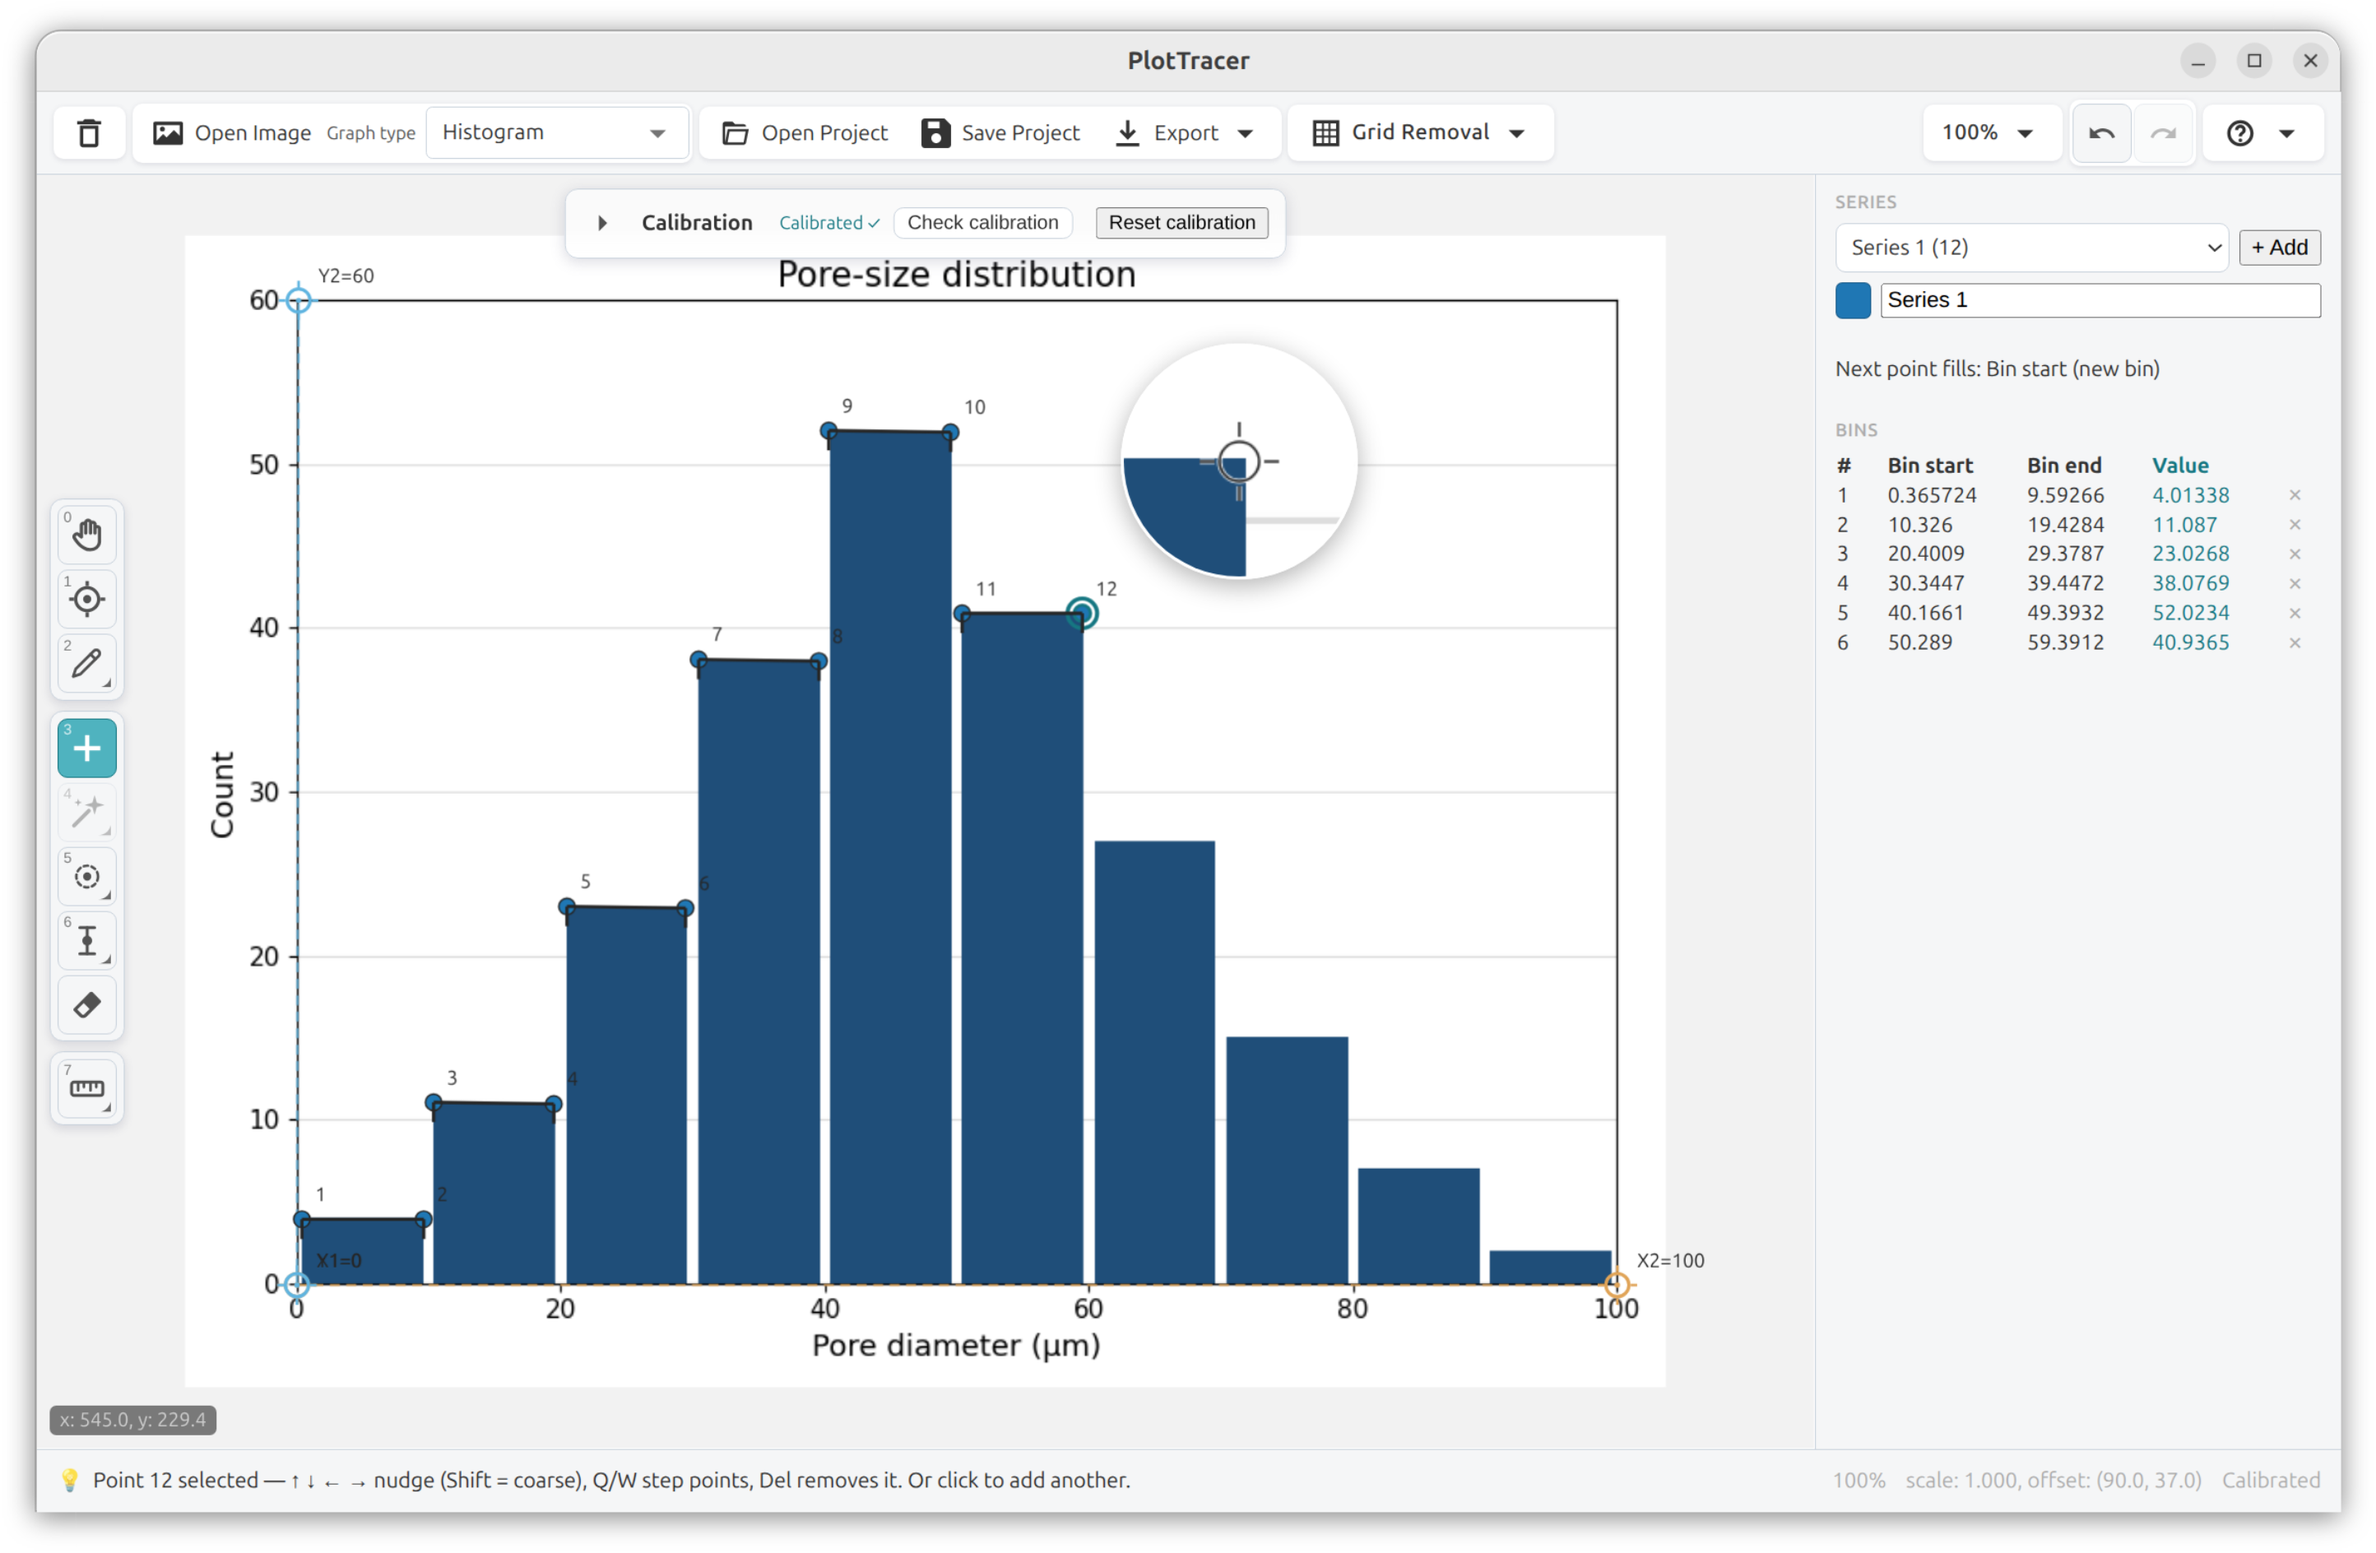
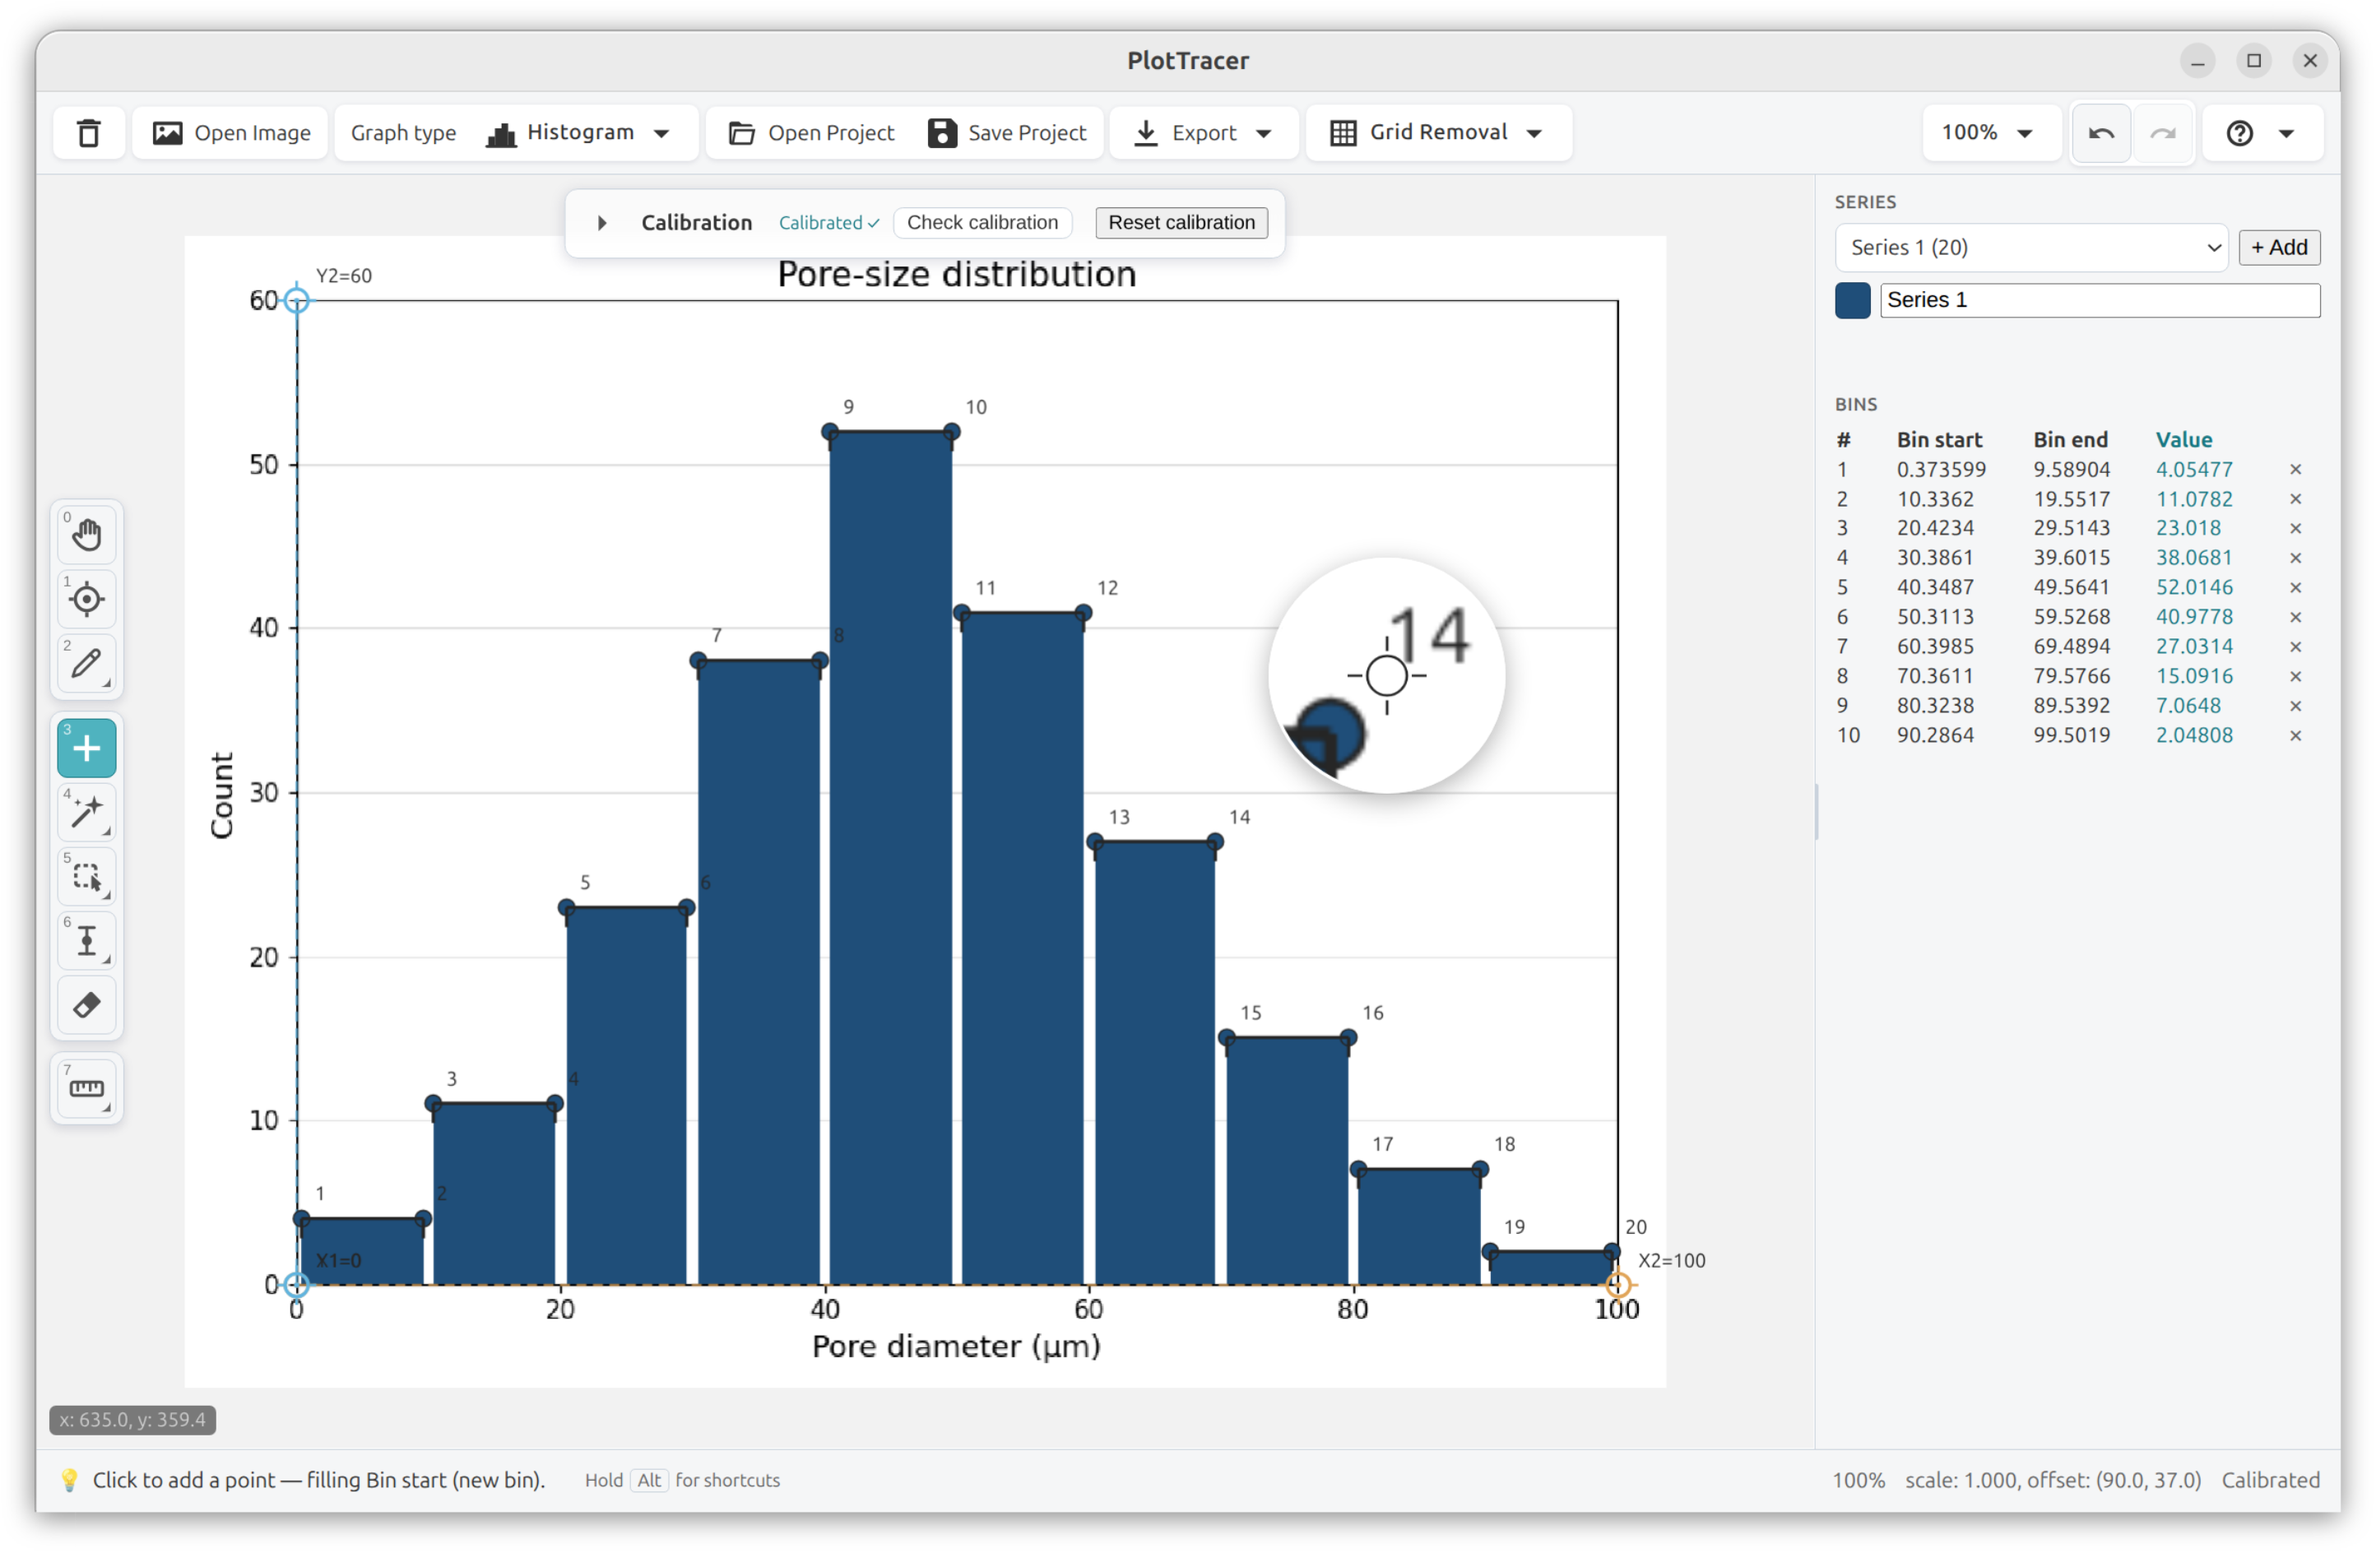
feat: an asymmetric error-bar example — the case ± SD cannot show
Every bundled error-bar figure was SYMMETRIC. That matters more than it sounds:
a mirrored lower cap happens to land in the right place on a symmetric figure,
so the workflow's one real trap is invisible in every example we ship. The app
seeds the lower cap as a mirror through the datum, and an untouched cap
therefore exports a symmetry the figure never drew -- and nothing in the
examples could demonstrate it. David asked for the pair: "one with, one
without."

`errorbar-failure-time-asymmetric` — time to failure vs. applied stress, 95%
CIs. ⚑ The asymmetry is real rather than staged: time-to-failure is
log-normally distributed, so its confidence interval genuinely IS lopsided
(lower ~0.74y, upper ~1.44y at every point). A contrived asymmetry would teach
the mechanic; this teaches why the mechanic exists.

⚑ The first version used a realistic two-order-of-magnitude decay and was
WRONG as an example: the last three intervals came out a few pixels tall, so
the figure could not be used to practise the very thing it exists to teach. The
decay is deliberately gentle now and the generator says why. An example is a
teaching surface, not a data set.

Ships its .truth.json like every other sample, in the same schema as
errorbar-tensile-cure (value + absolute upper/lower cap; deltas derived, never
stored), so a capture can be graded exactly.

⚑ THE e2e CAUGHT THE ADDITION, exactly as designed. The Help-dropdown test
[…]

diff --git a/ui/src/Workspace.tsx b/ui/src/Workspace.tsx
@@ -109,6 +109,7 @@ import scatterSample from '../../samples/scatter-crosslink-modulus.png';
 import dashedReleaseSample from '../../samples/xy-dashed-release.png';
 import histogramSample from '../../samples/histogram-pore-size.png';
 import errorBarSample from '../../samples/errorbar-tensile-cure.png';
+import errorBarAsymSample from '../../samples/errorbar-failure-time-asymmetric.png';
 import barSample from '../../samples/bar-tensile-strength.png';
 import barGroupedSample from '../../samples/bar-grouped-viability.png';
 import barStackedSample from '../../samples/bar-stacked-cost.png';
@@ -786,6 +787,12 @@ const EXAMPLES: readonly { id: string; name: string; src: string; axes: string; 
   // BLANK. `icon: 'errorbars'` overrides the shared XY glyph so this row
   // doesn't look identical to every other XY example.
   { id: 'errorbar', name: 'Error bars — tensile strength ± SD', src: errorBarSample, axes: 'xy', icon: 'errorbars' },
+  // ⚑ The pair matters. The ± SD figure above is SYMMETRIC, so a mirrored
+  // cap happens to land right and the workflow's one real trap stays
+  // hidden. This one is asymmetric at every point (time-to-failure is
+  // log-normal, so its CI genuinely is), which is the only way to see that
+  // an untouched lower cap reports a symmetry the figure never drew.
+  { id: 'errorbar-asym', name: 'Error bars — asymmetric 95% CI', src: errorBarAsymSample, axes: 'xy', icon: 'errorbars' },
   { id: 'histogram', name: 'Pore size distribution', src: histogramSample, axes: 'histogram' },
   { id: 'bar', name: 'Tensile strength', src: barSample, axes: 'bar' },
   // Three more bar examples (v2.0, David: "some more bar graph test cases"),

diff --git a/ui/__tests__/workspace.e2e.test.ts b/ui/__tests__/workspace.e2e.test.ts
@@ -4894,10 +4894,17 @@ describe('Workspace: Help / examples (checkpoint 46)', () => {
     // (v2.0, 2026-07-30): grouped, stacked and floating are each a distinct
     // capture shape, not a variation on the plain single-series case.
     //
+    // ⚑ And error bars got a SECOND one (2026-08-03): the ± SD figure is
+    // symmetric, so a mirrored lower cap happens to land right and the
+    // workflow's one real trap never shows. The asymmetric 95% CI figure is the
+    // only way to see that an untouched cap reports a symmetry the figure never
+    // drew. Same reasoning as the pies -- one example can show a capability
+    // "works" while leaving the case it exists for untried.
+    //
     // ⚑ A count is a real assertion here, not bookkeeping: an example that ships
     // without its Help entry is invisible, which is how a graph type ends up with
     // no way in for anyone who did not build it.
-    expect(await page.locator('[data-testid^="example-"]').count()).toBe(22);
+    expect(await page.locator('[data-testid^="example-"]').count()).toBe(23);
 
     await page.getByTestId('example-polar').click();
     await waitForImageFitted();

diff --git a/samples/generators/gen_samples.py b/samples/generators/gen_samples.py
@@ -474,6 +474,58 @@ def gen_errorbar():
     })
 
 
+def gen_errorbar_asymmetric():
+    """Time to failure vs. applied stress with ASYMMETRIC 95% CIs — the case the
+    symmetric ± SD example above cannot show.
+
+    ⚑ The asymmetry is not decoration. Time-to-failure is log-normally
+    distributed, so its confidence interval is genuinely lopsided: the upper arm
+    is longer than the lower one, every point. A tool that mirrors one cap
+    through the datum reports a symmetry this figure never drew — which is
+    exactly the defect the error-cap workflow exists to avoid, and there was no
+    bundled figure that could demonstrate it (David, 2026-08-03).
+
+    Truth = each point's value and its absolute upper/lower cap, the same schema
+    as errorbar-tensile-cure (deltas are derived, never stored)."""
+    name = "errorbar-failure-time-asymmetric"
+    # ⚑ The decay is deliberately gentle. A true failure-time curve drops by two
+    # orders of magnitude, which would leave the last three intervals a few
+    # pixels tall -- unplaceable, so the example could not be USED to practise
+    # the thing it exists to teach. Every interval here is wide enough to put a
+    # cap on, and the log-normal asymmetry (lower ~0.74y, upper ~1.44y) is
+    # preserved at every point.
+    x = np.array([50, 75, 100, 125, 150, 175, 200], dtype=float)      # stress (MPa)
+    y = np.array([820, 610, 440, 310, 205, 130, 78], dtype=float)     # median time to failure (h)
+    lo = np.array([610, 455, 330, 232, 152, 95, 56], dtype=float)     # 95% CI lower bound
+    hi = np.array([1180, 880, 630, 442, 292, 186, 113], dtype=float)  # 95% CI upper bound
+    fig, ax = plt.subplots(figsize=(9, 7), dpi=100)
+    fig.patch.set_facecolor("white")
+    # yerr as a 2xN array is what makes the caps asymmetric: row 0 is the drop to
+    # the lower bound, row 1 the rise to the upper.
+    ax.errorbar(x, y, yerr=[y - lo, hi - y], fmt="o", color=NAVY, ecolor=NAVY,
+                elinewidth=1.6, capsize=5, markersize=6)
+    ax.set_xlim(25, 225)
+    ax.set_ylim(0, 1300)
+    ax.set_xlabel("Applied stress (MPa)", fontsize=13)
+    ax.set_ylabel("Time to failure (h)", fontsize=13)
+    ax.set_title("Time to failure vs. applied stress (95% CI)", fontsize=15)
+    ax.grid(True, color="#dddddd", linewidth=0.8)
+    ax.tick_params(labelsize=11)
+    fig.tight_layout()
+    _save(fig, name)
+    _write_truth(name, {
+        "source": {"imagePath": name + ".png",
+                   "note": "Synthetic ground truth — value + absolute upper/lower cap per point. "
+                           "Every interval is ASYMMETRIC: the upper arm is longer than the lower."},
+        "graphType": "xy",
+        "axes": {"x": {"label": "Applied stress (MPa)", "min": 25, "max": 225},
+                 "y": {"label": "Time to failure (h)", "min": 0, "max": 1300}},
+        "series": [{"name": "time to failure", "points": [
+            {"x": float(a), "y": float(b), "yUpper": float(u), "yLower": float(l)}
+            for a, b, l, u in zip(x, y, lo, hi)]}],
+    })
+
+
 def gen_boxplot():
     """Tensile strength distribution by fibre type, as box plots drawn from
     KNOWN five-number summaries (ax.bxp takes precomputed stats -> the truth is
@@ -1260,6 +1312,7 @@ if __name__ == "__main__":
     gen_categorical()
     gen_stress_strain()
     gen_errorbar()
+    gen_errorbar_asymmetric()
     gen_boxplot()
     gen_polar()
     gen_ccr()
